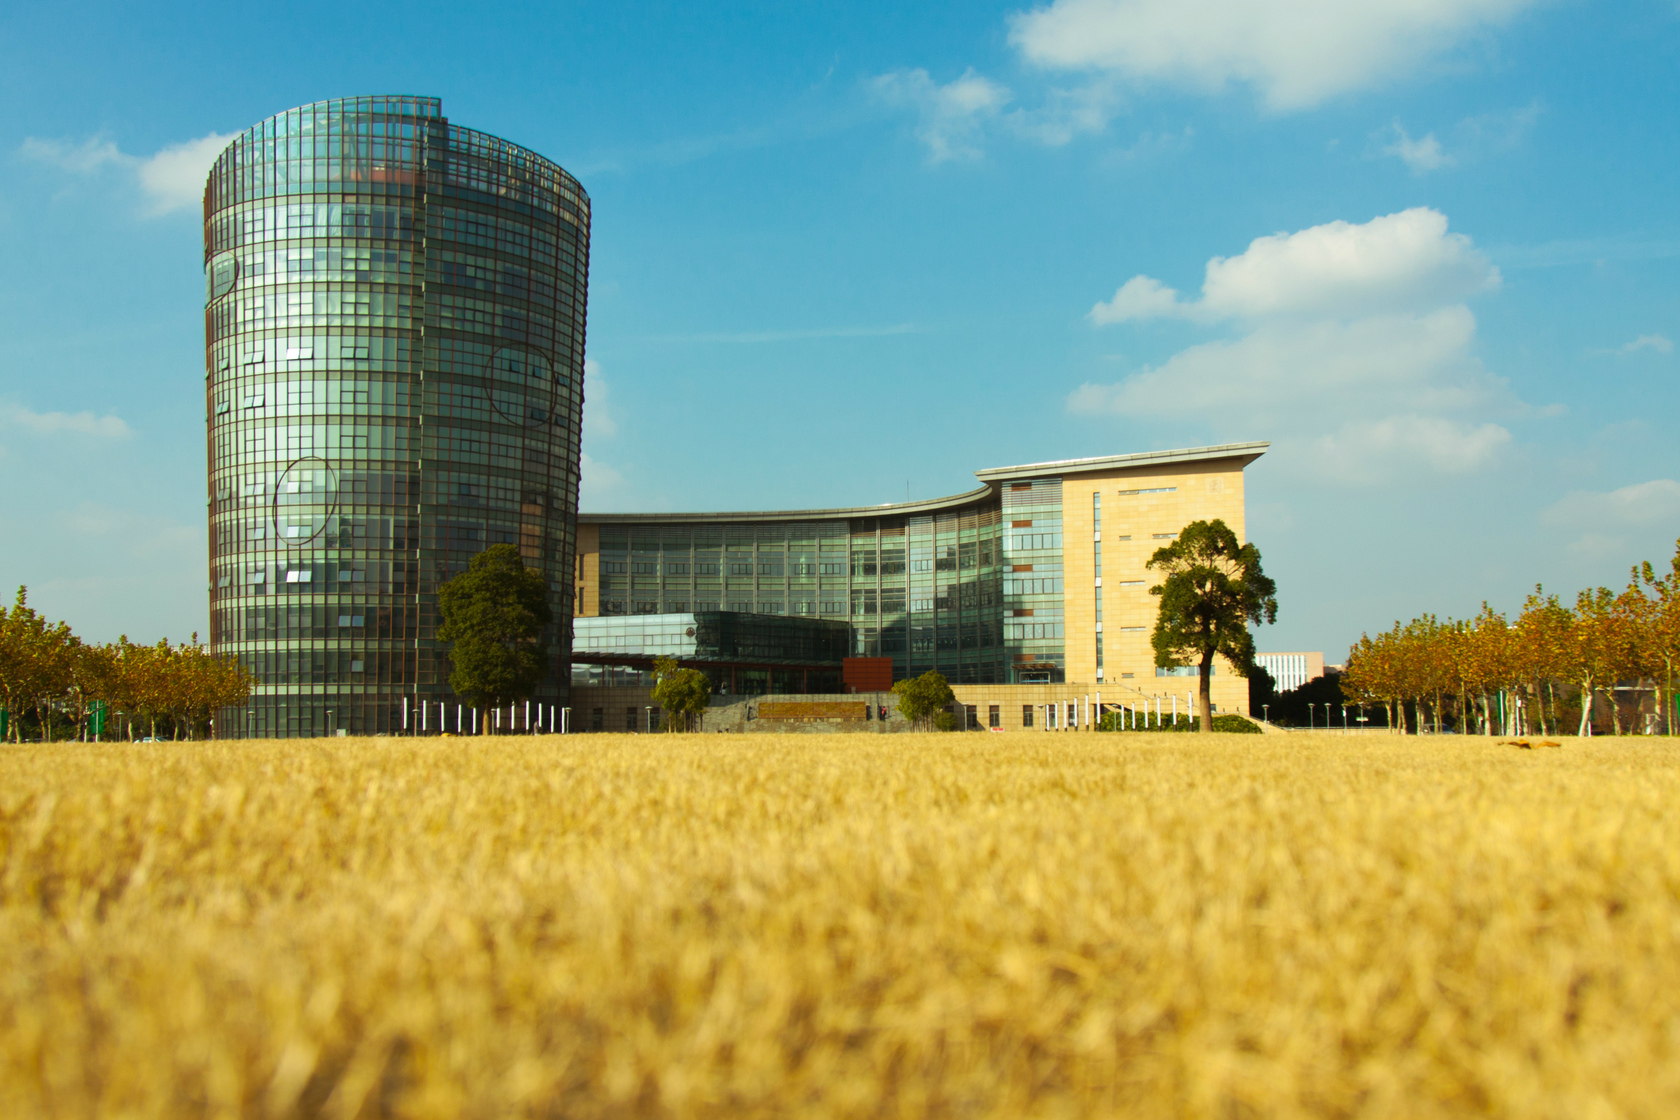
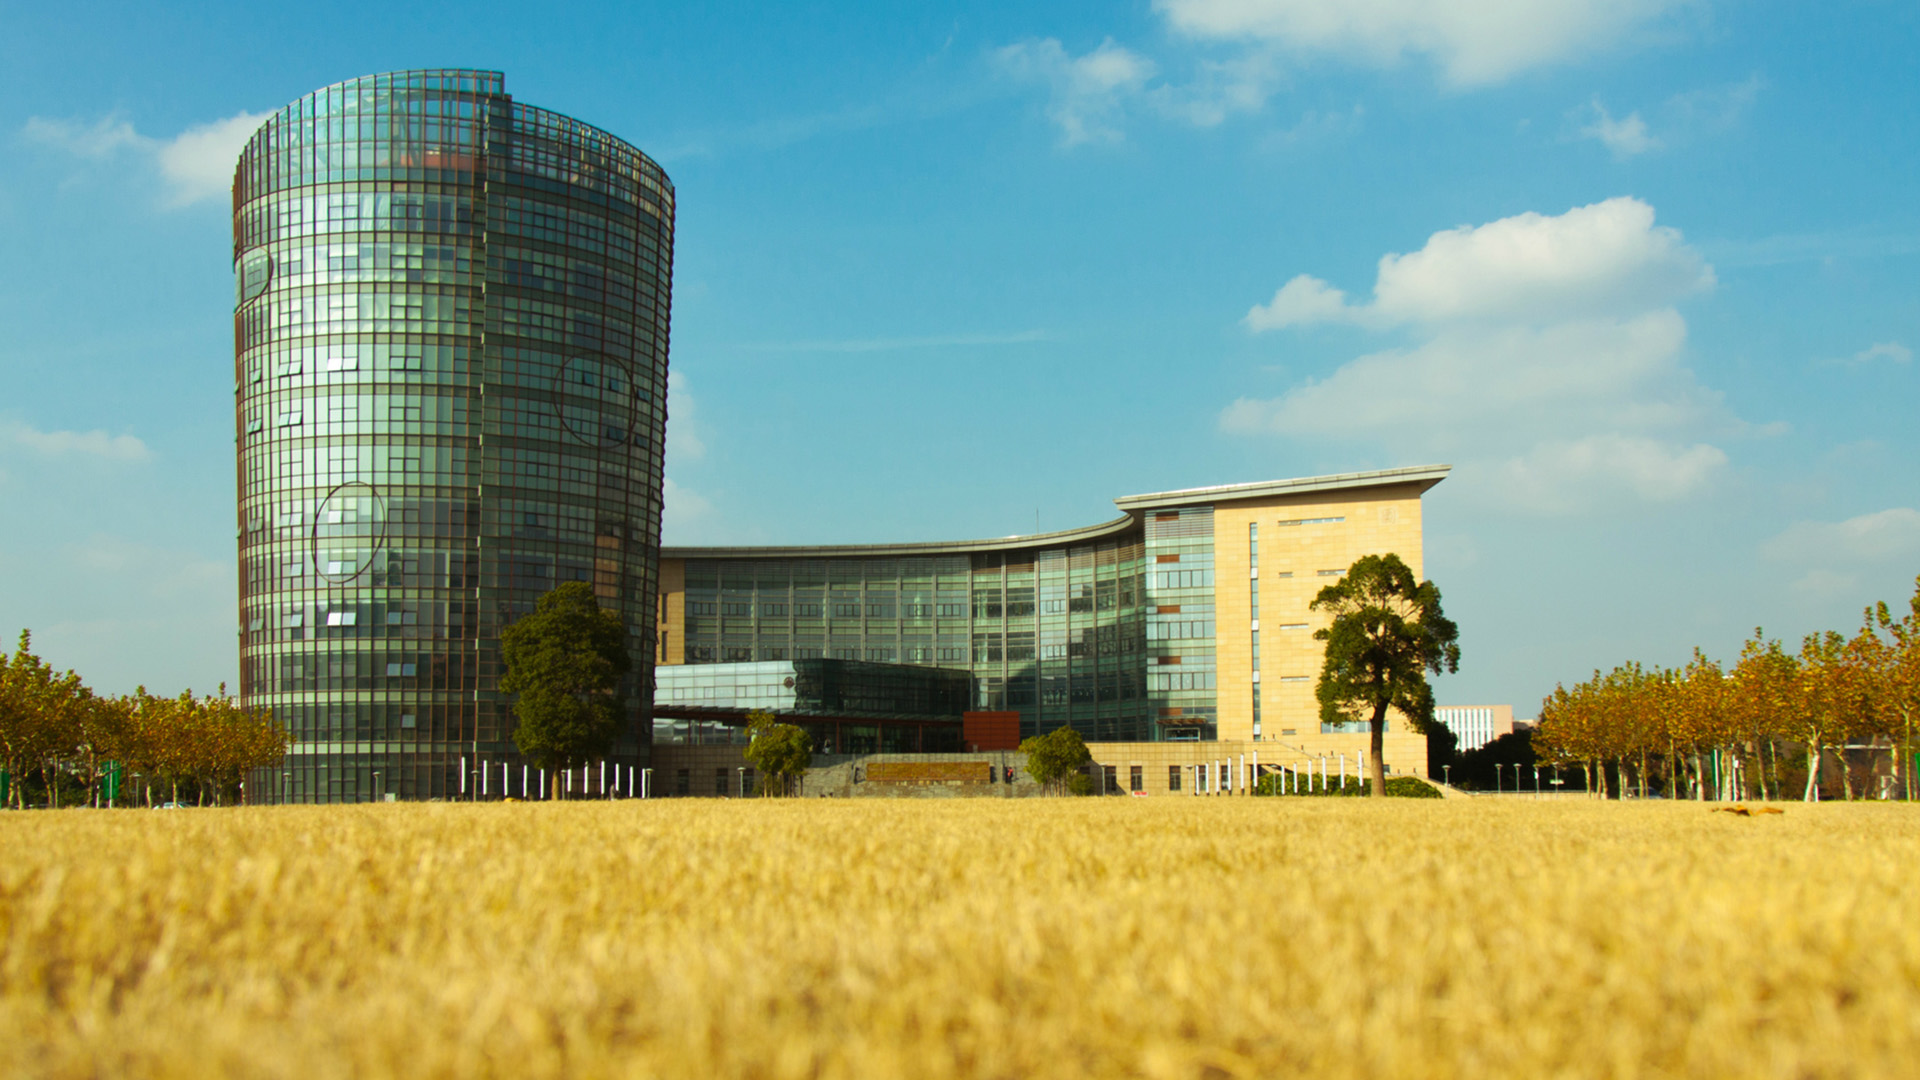
修改首页大图规格为1920px * 1080px

diff --git a/Application/Home/View/Index/index.html b/Application/Home/View/Index/index.html
@@ -32,7 +32,7 @@
 	<section class="section-wrap">
 		<div class="section section-1">
 			<div id="formbackground">  
-			<img src="__PUBLIC__/img/back_large.jpg" style="width: 100%;height: auto" alt="图片载入失败">
+			<img src="__PUBLIC__/img/back_large.jpg" style="width: auto;height: auto" alt="图片载入失败">
 			</div> 
 			
 			<div id="Part1">
